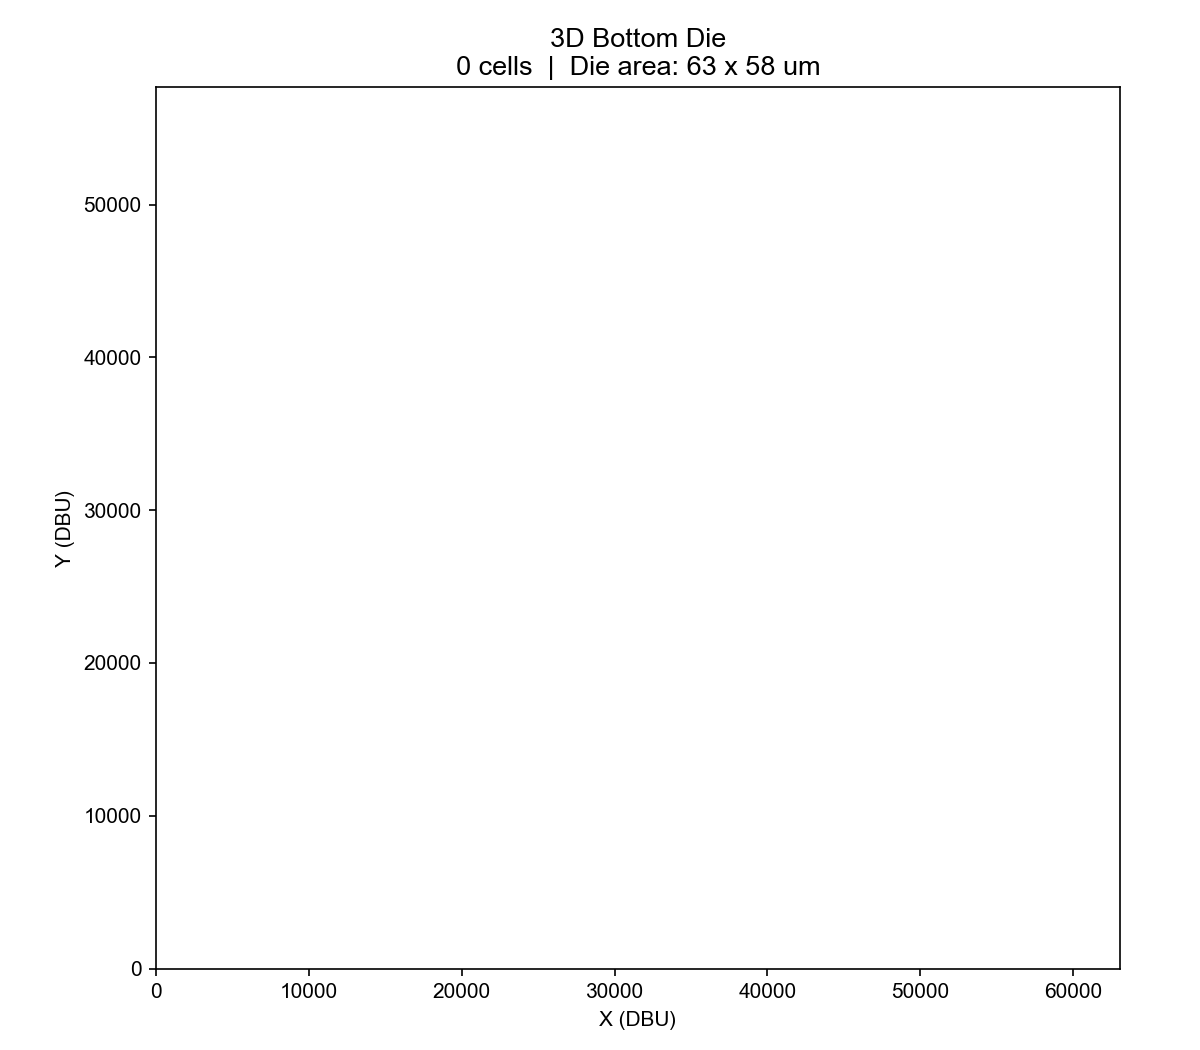
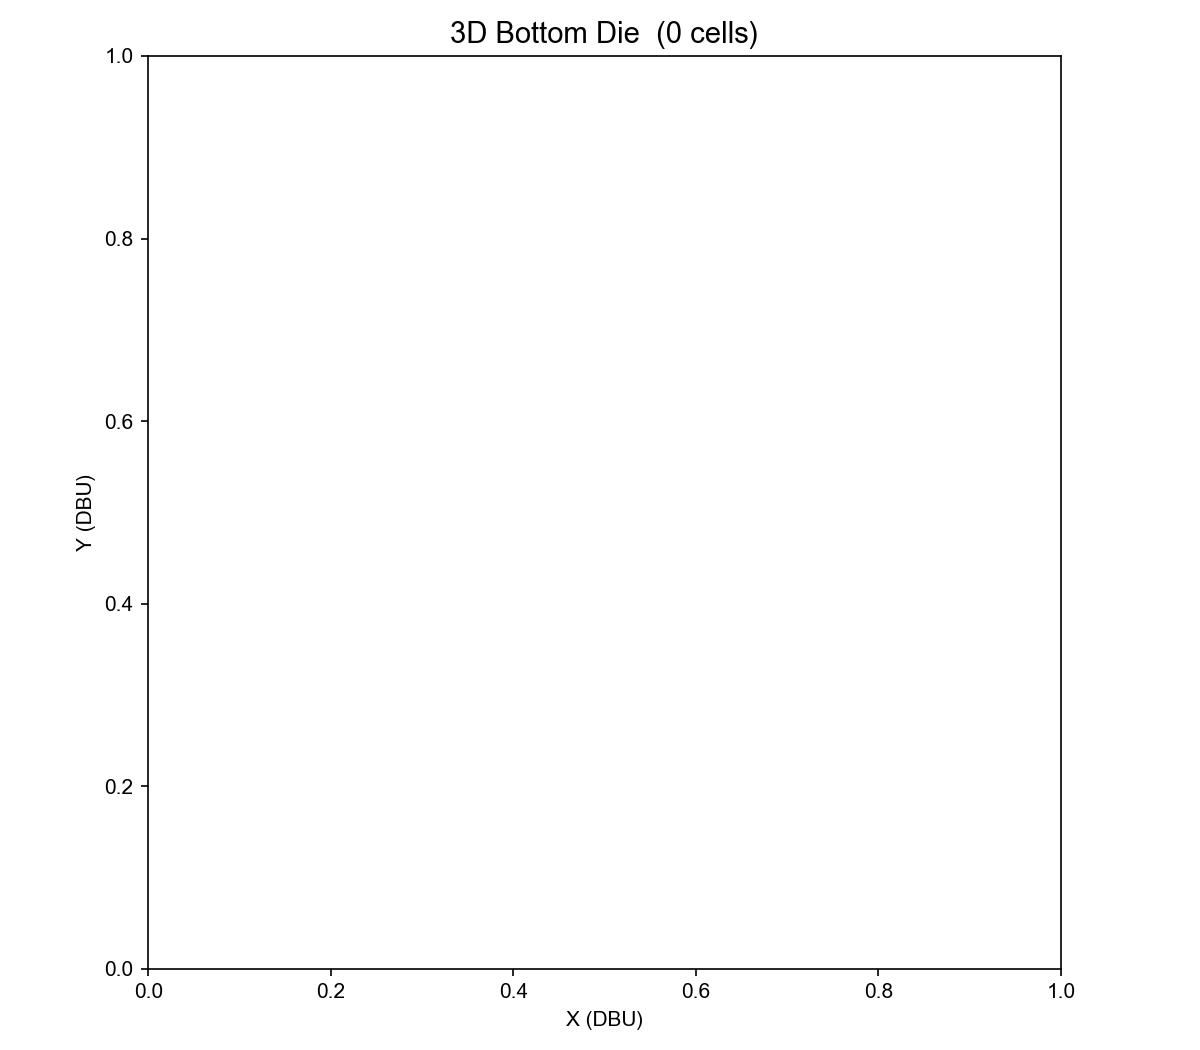
缩放至单元实际區域, 散点加大(s=120/60), 去除空白边距

diff --git a/scripts/plot_placement.py b/scripts/plot_placement.py
@@ -23,30 +23,42 @@ top = [(x,y) for _,x,y,t in d3d if t.endswith('_t')]
 
 ratio_2d = da2d[2] / da3d[2]
 
-# 1. 2D placement
+# 1. 2D placement — zoom to cells
 fig, ax = plt.subplots(figsize=(10, 9))
 xs = [x for _,x,y,_ in d2d]; ys = [y for _,x,y,_ in d2d]
-ax.scatter(xs, ys, c='steelblue', s=40, alpha=0.55, edgecolors='white', linewidth=0.2)
-ax.set_title(f'2D Placement (Area=2A, natural density)\n{len(d2d)} cells, HPWL=7.00M', fontsize=13, fontweight='bold')
-ax.set_xlim(0, da2d[2]); ax.set_ylim(0, da2d[3]); ax.set_aspect('equal')
+ax.scatter(xs, ys, c='steelblue', s=60, alpha=0.6, edgecolors='white', linewidth=0.3)
+m = 6000
+ax.set_xlim(min(xs)-m, max(xs)+m); ax.set_ylim(min(ys)-m, max(ys)+m)
+ax.set_title(f'2D Placement (Area=2A, natural density)\n{len(d2d)} cells, HPWL=7.00M', fontsize=14, fontweight='bold')
+ax.set_aspect('equal')
 ax.set_xlabel('X (DBU)'); ax.set_ylabel('Y (DBU)')
 plt.tight_layout(); plt.savefig('figures/gcd_2d.png', dpi=150); plt.close()
 
-# 2. 3D bottom
+# 2. 3D bottom — zoom to cell bounding box with margin
 fig, ax = plt.subplots(figsize=(8, 7))
-if bot: xs, ys = zip(*bot); ax.scatter(xs, ys, c='#2E86AB', s=80, alpha=0.75, edgecolors='white', linewidth=0.3)
-ax.set_title(f'3D Bottom Die\n{len(bot)} cells  |  Die area: 63 x 58 um', fontsize=13, fontweight='bold')
-ax.set_xlim(0, da3d[2]); ax.set_ylim(0, da3d[3]); ax.set_aspect('equal')
+if bot:
+    xs, ys = zip(*bot)
+    ax.scatter(xs, ys, c='#2E86AB', s=120, alpha=0.8, edgecolors='white', linewidth=0.5)
+    margin = 4000
+    ax.set_xlim(min(xs)-margin, max(xs)+margin)
+    ax.set_ylim(min(ys)-margin, max(ys)+margin)
+ax.set_title(f'3D Bottom Die  ({len(bot)} cells)', fontsize=14, fontweight='bold')
+ax.set_aspect('equal')
 ax.set_xlabel('X (DBU)'); ax.set_ylabel('Y (DBU)')
-plt.tight_layout(); plt.savefig('figures/gcd_3d_bottom.png', dpi=150, facecolor='white'); plt.close()
+plt.tight_layout(); plt.savefig('figures/gcd_3d_bottom.png', dpi=150); plt.close()
 
-# 3. 3D top
+# 3. 3D top — same zoom logic
 fig, ax = plt.subplots(figsize=(8, 7))
-if top: xs, ys = zip(*top); ax.scatter(xs, ys, c='#D66853', s=80, alpha=0.75, edgecolors='white', linewidth=0.3)
-ax.set_title(f'3D Top Die\n{len(top)} cells  |  Die area: 63 x 58 um', fontsize=13, fontweight='bold')
-ax.set_xlim(0, da3d[2]); ax.set_ylim(0, da3d[3]); ax.set_aspect('equal')
+if top:
+    xs, ys = zip(*top)
+    ax.scatter(xs, ys, c='#D66853', s=120, alpha=0.8, edgecolors='white', linewidth=0.5)
+    margin = 4000
+    ax.set_xlim(min(xs)-margin, max(xs)+margin)
+    ax.set_ylim(min(ys)-margin, max(ys)+margin)
+ax.set_title(f'3D Top Die  ({len(top)} cells)', fontsize=14, fontweight='bold')
+ax.set_aspect('equal')
 ax.set_xlabel('X (DBU)'); ax.set_ylabel('Y (DBU)')
-plt.tight_layout(); plt.savefig('figures/gcd_3d_top.png', dpi=150, facecolor='white'); plt.close()
+plt.tight_layout(); plt.savefig('figures/gcd_3d_top.png', dpi=150); plt.close()
 
 # 4. Side-by-side comparison (proportional)
 fig, axes = plt.subplots(1, 3, figsize=(16, 5),
@@ -54,17 +66,26 @@ fig, axes = plt.subplots(1, 3, figsize=(16, 5),
 ax = axes[0]
 xs = [x for _,x,y,_ in d2d]; ys = [y for _,x,y,_ in d2d]
 sf = math.sqrt(ratio_2d)
-ax.scatter(xs, ys, c='steelblue', s=30*sf, alpha=0.55, edgecolors='white', linewidth=0.2)
+m = 6000
+ax.scatter(xs, ys, c='steelblue', s=40*sf, alpha=0.6, edgecolors='white', linewidth=0.3)
 ax.set_title(f'2D (Area=2A)  {len(d2d)} cells', fontsize=12*sf, fontweight='bold')
-ax.set_xlim(0, da2d[2]); ax.set_ylim(0, da2d[3]); ax.set_aspect('equal')
+ax.set_xlim(min(xs)-m, max(xs)+m); ax.set_ylim(min(ys)-m, max(ys)+m); ax.set_aspect('equal')
 
 ax = axes[1]
-if bot: xs, ys = zip(*bot); ax.scatter(xs, ys, c='#2E86AB', s=80, alpha=0.75, edgecolors='white', linewidth=0.3)
+if bot:
+    xs, ys = zip(*bot)
+    ax.scatter(xs, ys, c='#2E86AB', s=100, alpha=0.8, edgecolors='white', linewidth=0.5)
+    m3 = 4000
+    ax.set_xlim(min(xs)-m3, max(xs)+m3); ax.set_ylim(min(ys)-m3, max(ys)+m3)
 ax.set_title(f'3D Bottom  {len(bot)} cells', fontsize=12, fontweight='bold')
-ax.set_xlim(0, da3d[2]); ax.set_ylim(0, da3d[3]); ax.set_aspect('equal')
+ax.set_aspect('equal')
 
 ax = axes[2]
-if top: xs, ys = zip(*top); ax.scatter(xs, ys, c='#D66853', s=80, alpha=0.75, edgecolors='white', linewidth=0.3)
+if top:
+    xs, ys = zip(*top)
+    ax.scatter(xs, ys, c='#D66853', s=100, alpha=0.8, edgecolors='white', linewidth=0.5)
+    m3 = 4000
+    ax.set_xlim(min(xs)-m3, max(xs)+m3); ax.set_ylim(min(ys)-m3, max(ys)+m3)
 ax.set_title(f'3D Top  {len(top)} cells', fontsize=12, fontweight='bold')
 ax.set_xlim(0, da3d[2]); ax.set_ylim(0, da3d[3]); ax.set_aspect('equal')
 
